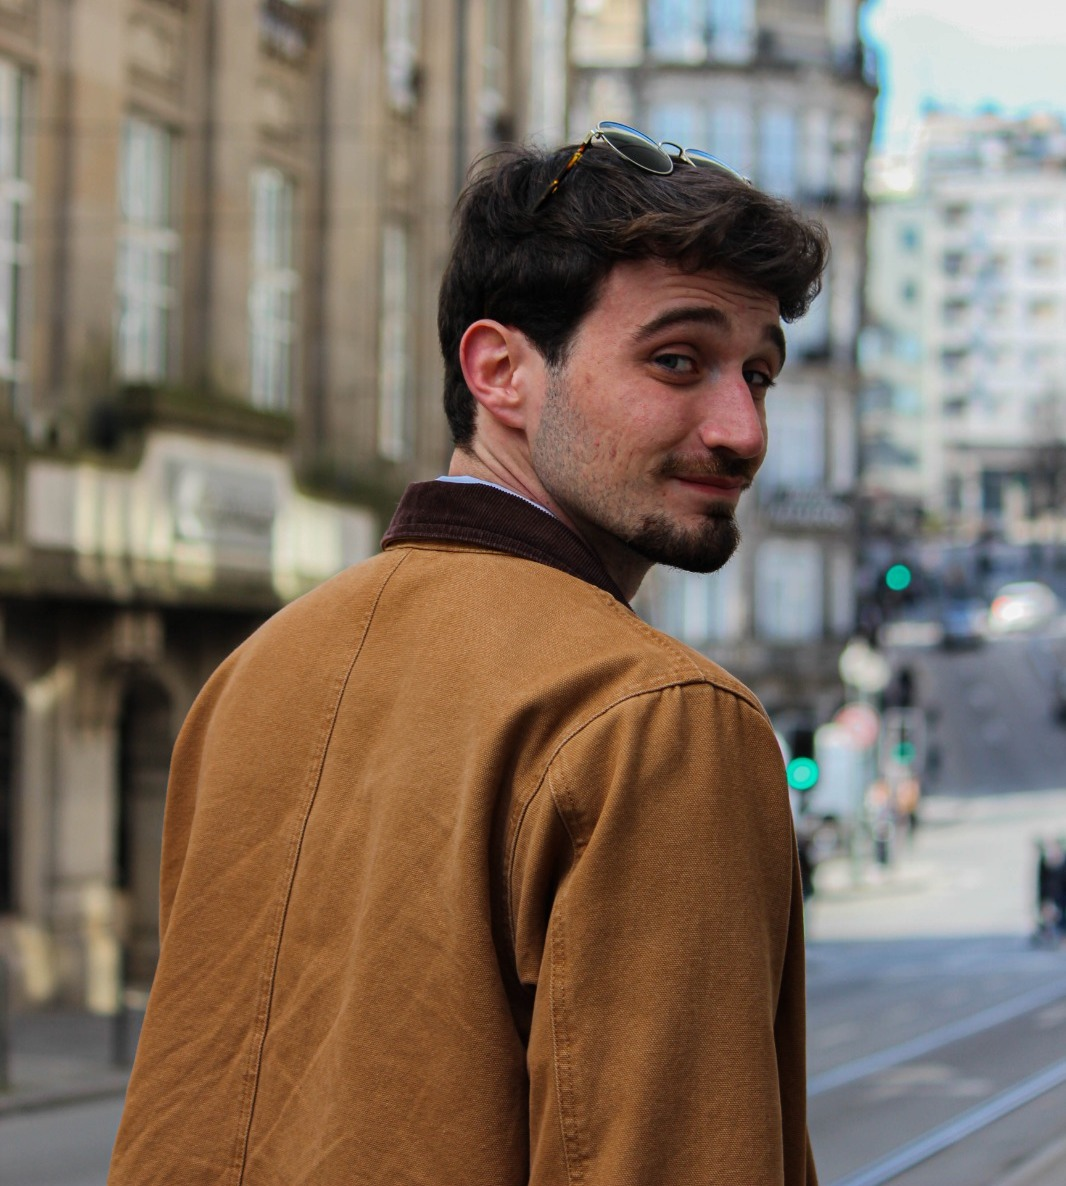
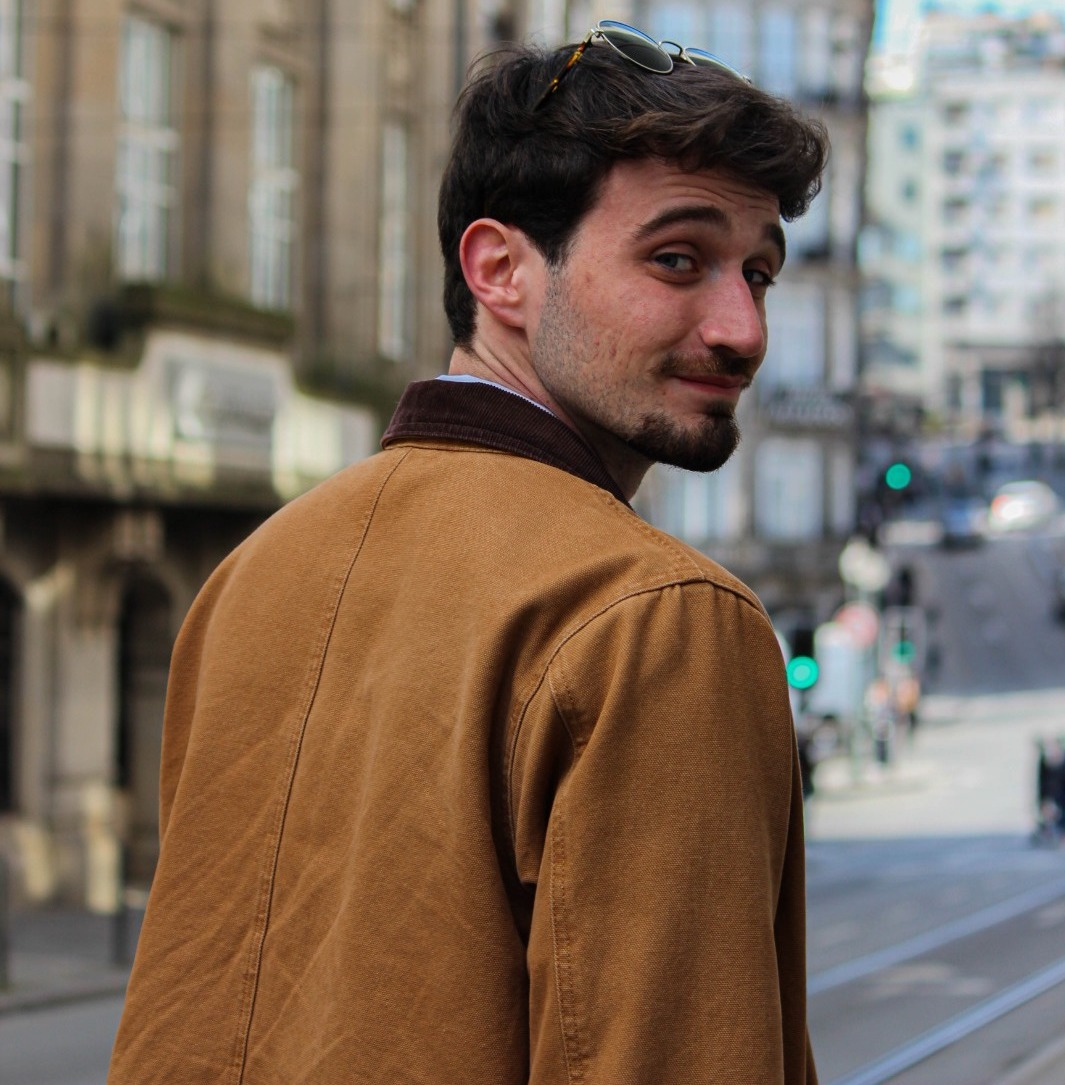
+

diff --git a/Frontend/templates/about.html b/Frontend/templates/about.html
@@ -52,7 +52,7 @@
                 </div>
                 <div class="col-sm">
                     <div class="card" style="width: 13rem;">
-                        <img src="/imgs/Claro.jpg" class="card-img-top" alt="...">
+                        <img src="https://raw.githubusercontent.com/PECI2022/demo-repository/joao2/Frontend/templates/imgs/joao.jpg" class="card-img-top" alt="...">
                         <div class="card-body">
                             <h5 class="card-title">Eduardo Lopes Fernandes</h5>
                             <p class="card-text">LECI</p>
